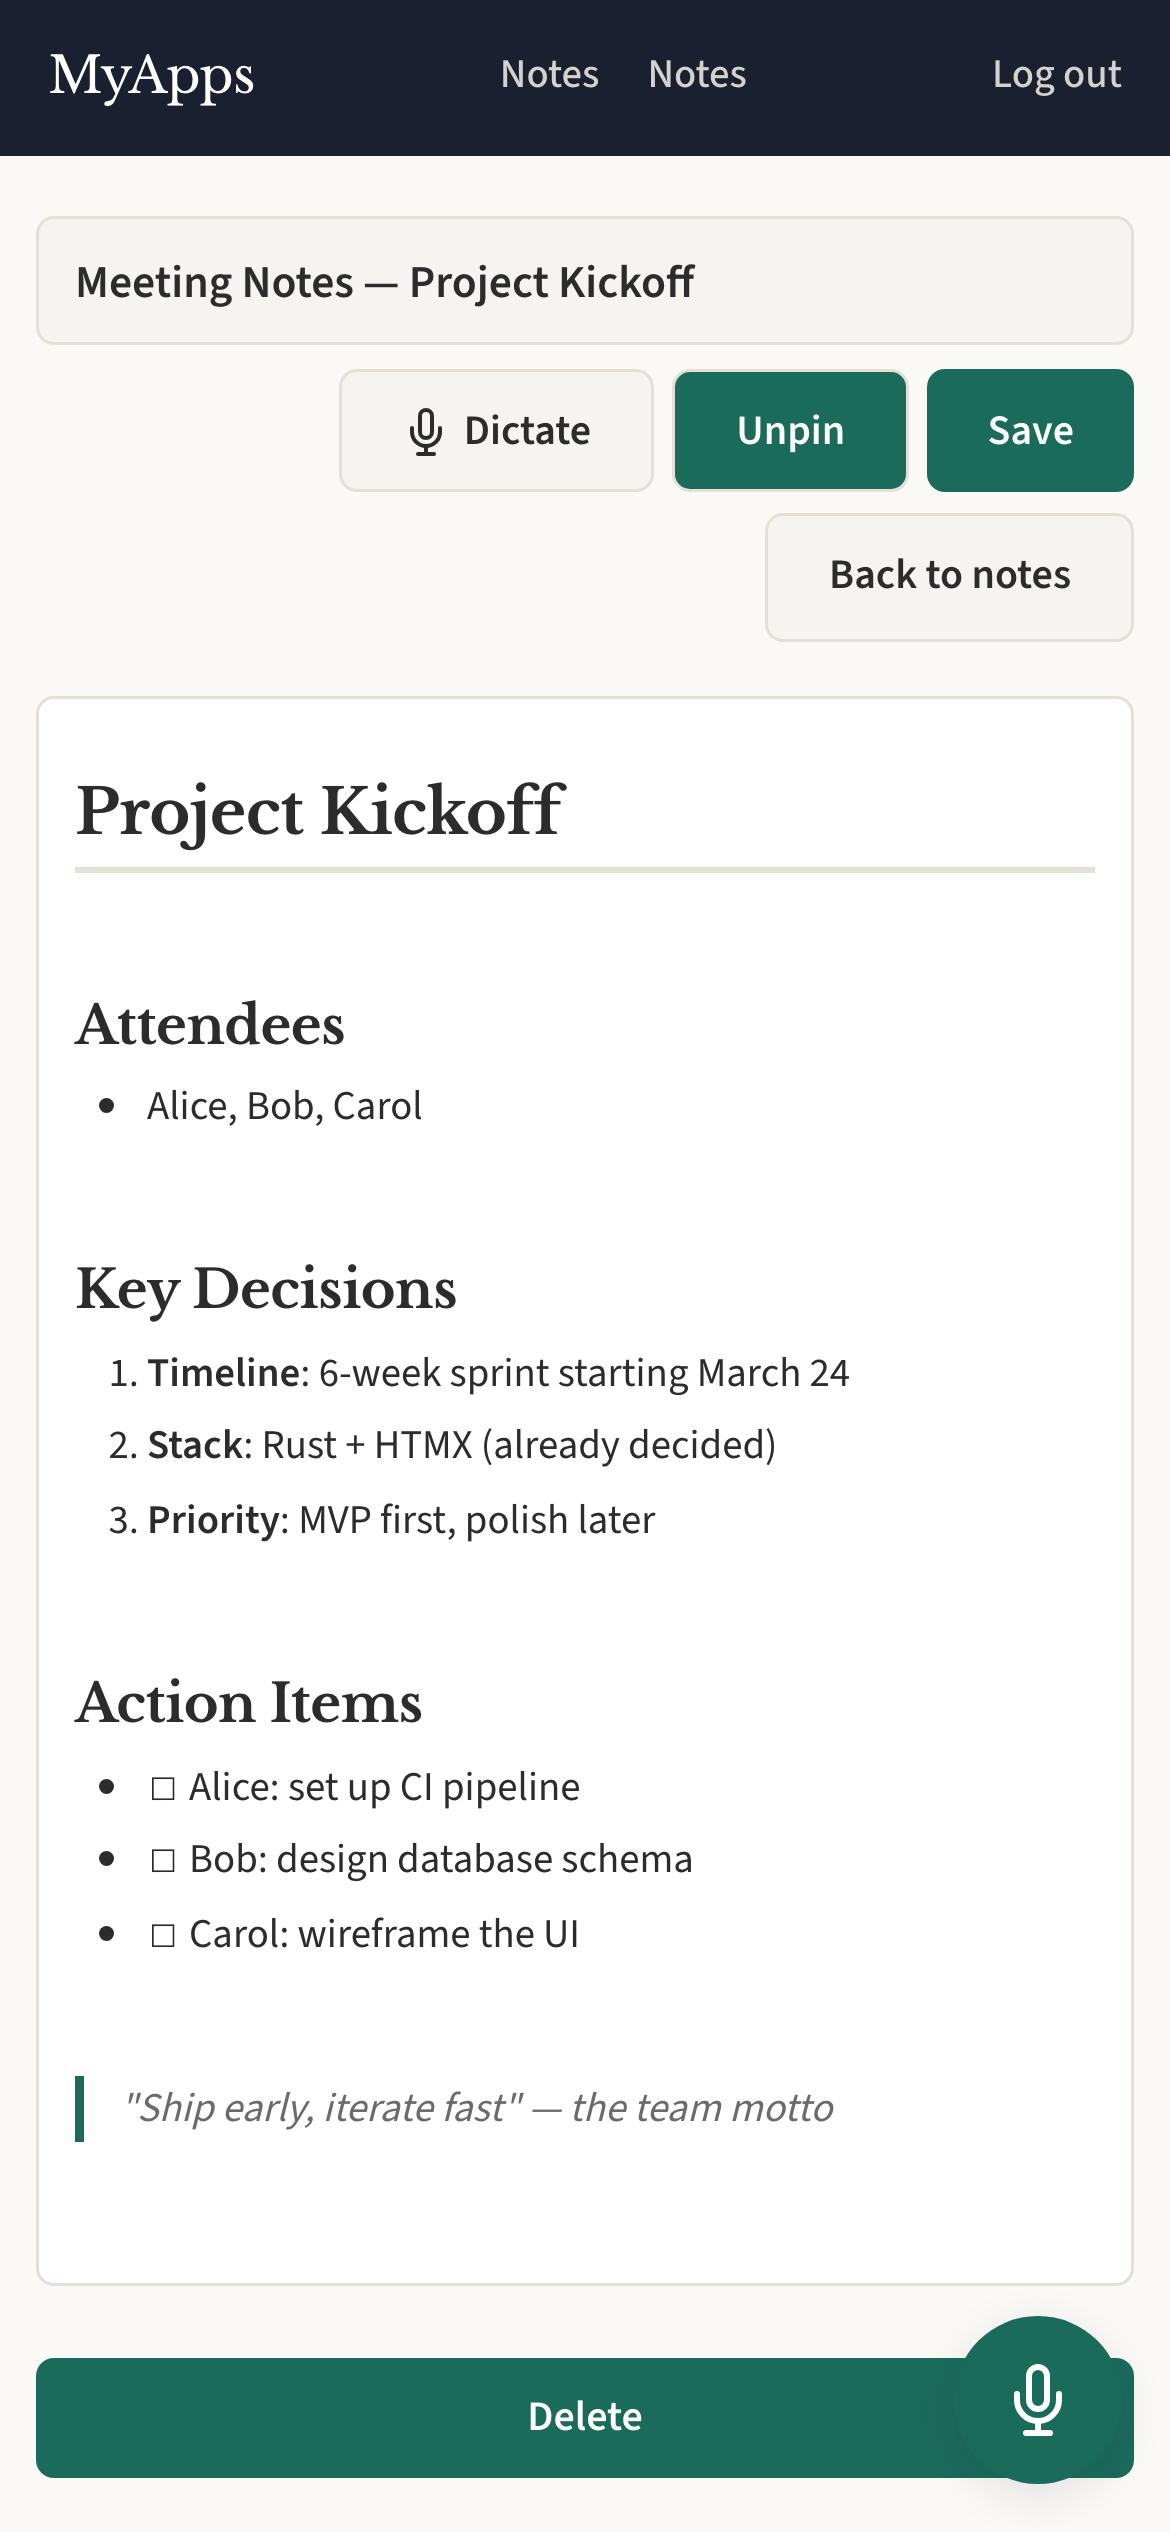
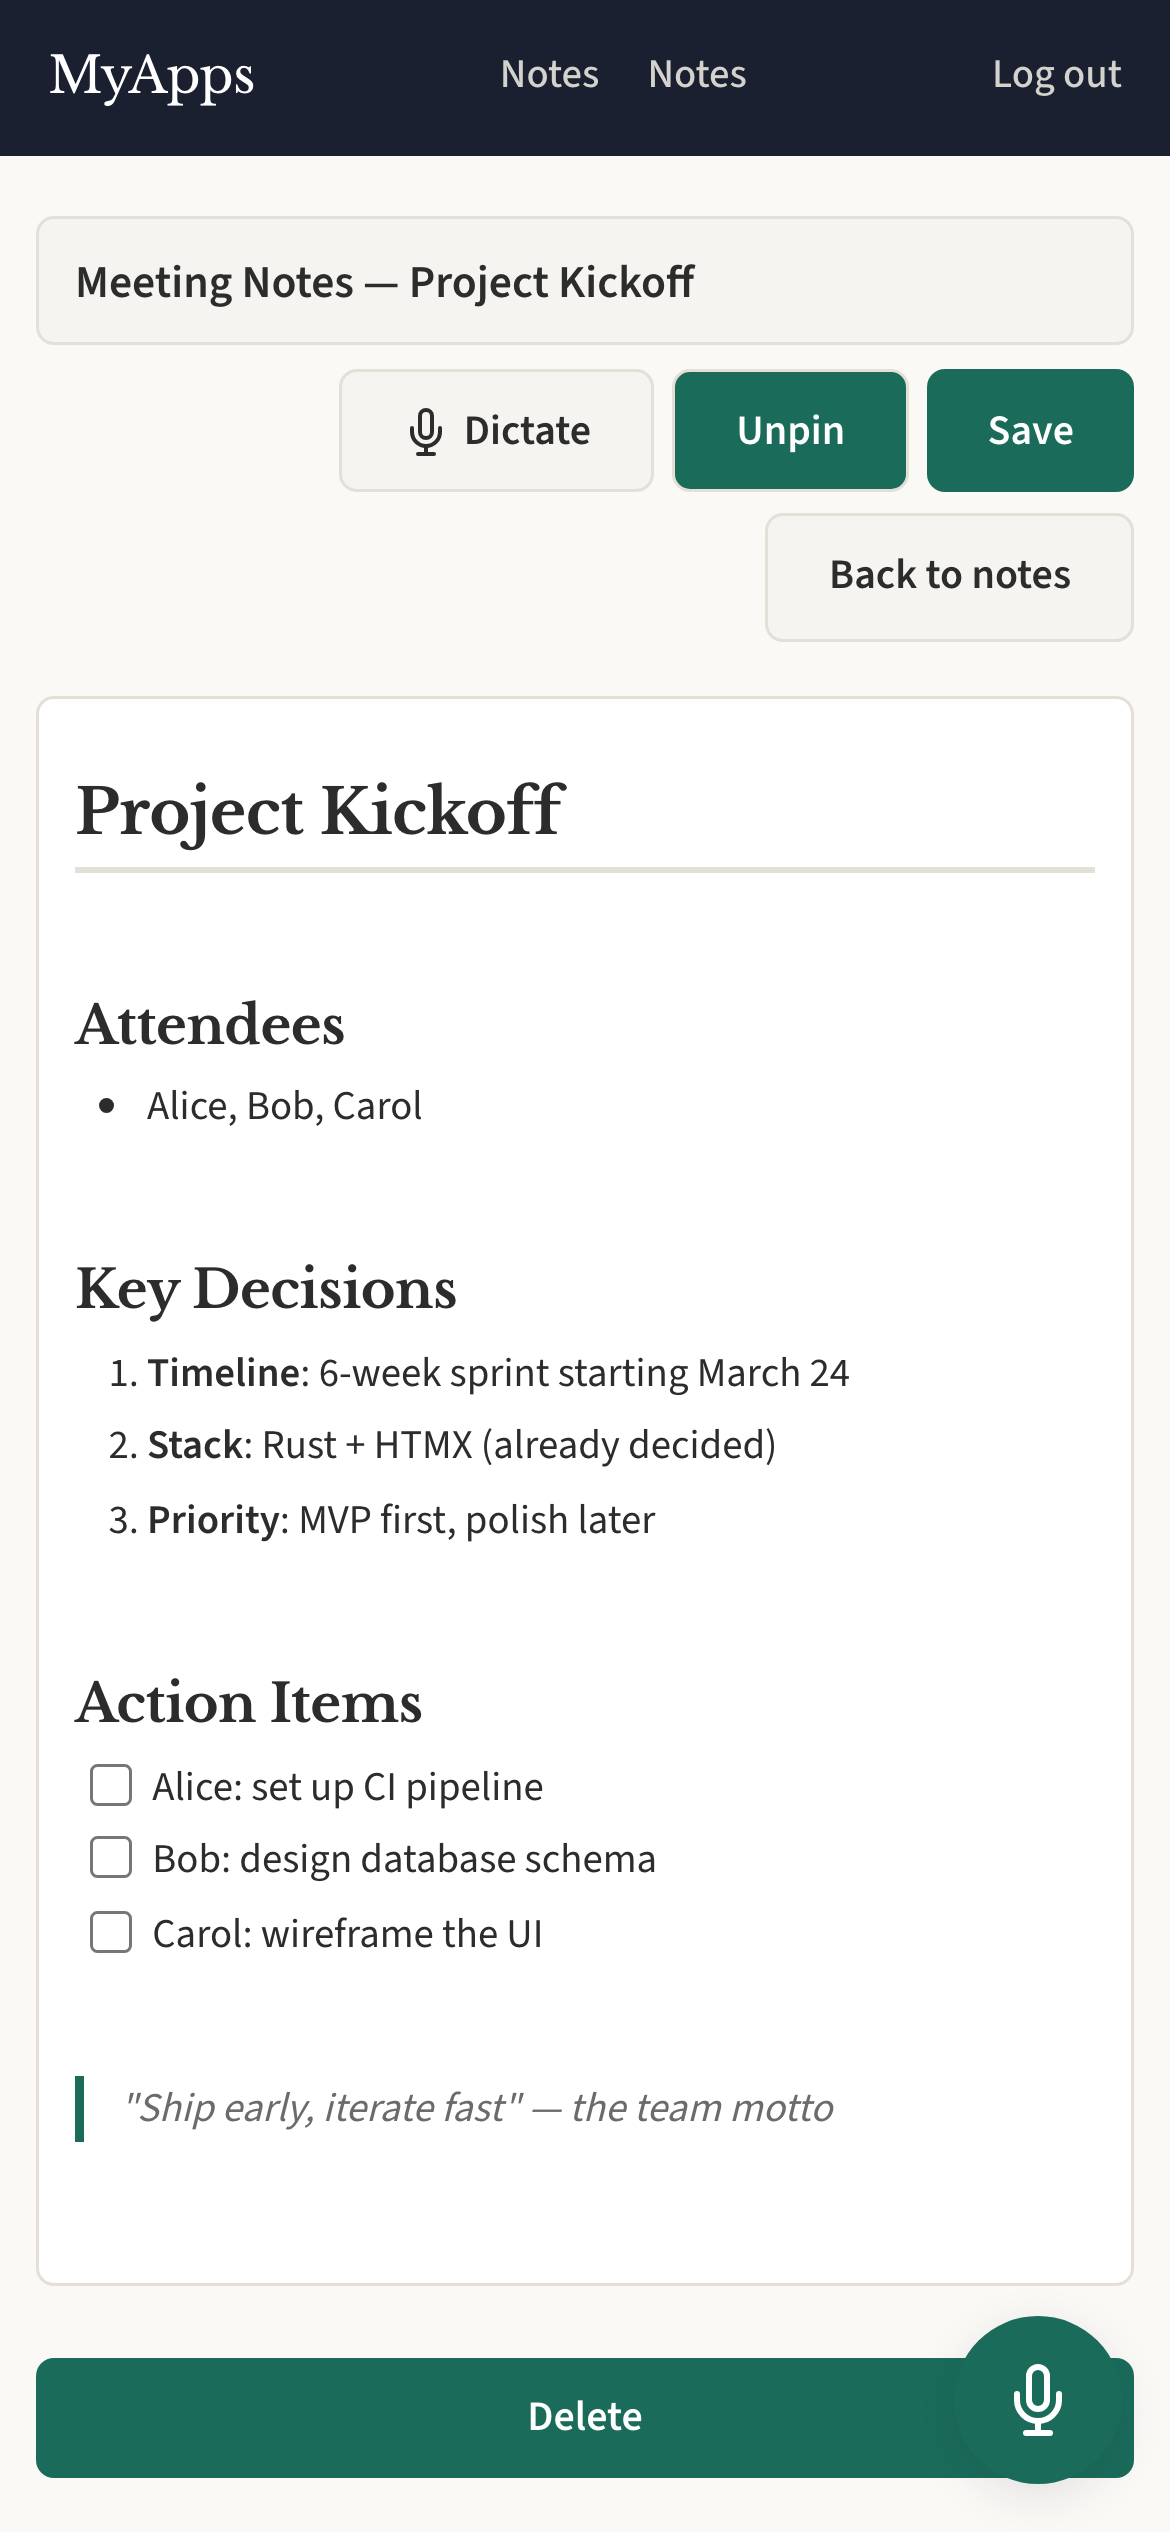
[FEAT-78] Toggle markdown checkboxes with a click in Notes editor (#78)

Changed region(s): [[0.0615, 0.6864, 0.5846, 0.78]]

diff --git a/static/notes-editor.js b/static/notes-editor.js
@@ -36,7 +36,13 @@
                 case 'hr': md += '---\n'; break;
                 case 'ul':
                     for (var li = 0; li < node.children.length; li++) {
-                        md += '- ' + getInlineText(node.children[li]) + '\n';
+                        var liEl = node.children[li];
+                        var cb = liEl.querySelector('input[type="checkbox"]');
+                        if (cb) {
+                            md += (cb.checked ? '- [x] ' : '- [ ] ') + getInlineText(liEl) + '\n';
+                        } else {
+                            md += '- ' + getInlineText(liEl) + '\n';
+                        }
                     }
                     break;
                 case 'ol':
@@ -63,6 +69,7 @@
             if (ch.nodeType === 3) { text += ch.textContent; continue; }
             if (ch.nodeType !== 1) continue;
             var tag = ch.tagName.toLowerCase();
+            if (tag === 'input') continue;
             if (tag === 'strong' || tag === 'b') text += '**' + getInlineText(ch) + '**';
             else if (tag === 'em' || tag === 'i') text += '*' + getInlineText(ch) + '*';
             else if (tag === 'code') text += '`' + ch.textContent + '`';
@@ -141,6 +148,37 @@
                 setCursorAt(li, 0);
                 syncToTextarea();
                 return;
+            }
+        }
+
+        // Task checkbox: user typed "[ ] " or "[x] " at the start of a plain <li>
+        // (typically right after "- " created the list). Convert the li into
+        // a task item with a real checkbox input.
+        if (block && block.tagName === 'LI' && !block.classList.contains('notes-task-item')) {
+            var firstChild = block.firstChild;
+            if (firstChild && firstChild.nodeType === 3) {
+                var firstText = norm(firstChild.textContent);
+                var cbMatch = firstText.match(/^\[([ xX])\] /);
+                if (cbMatch) {
+                    firstChild.textContent = firstChild.textContent.substring(cbMatch[0].length);
+                    block.classList.add('notes-task-item');
+                    var cb = document.createElement('input');
+                    cb.type = 'checkbox';
+                    cb.setAttribute('contenteditable', 'false');
+                    if (cbMatch[1] === 'x' || cbMatch[1] === 'X') {
+                        cb.checked = true;
+                        cb.setAttribute('checked', '');
+                    }
+                    block.insertBefore(cb, firstChild);
+                    var range = document.createRange();
+                    range.setStart(firstChild, 0);
+                    range.collapse(true);
+                    var sel = window.getSelection();
+                    sel.removeAllRanges();
+                    sel.addRange(range);
+                    syncToTextarea();
+                    return;
+                }
             }
         }
 
@@ -328,6 +366,41 @@
                     syncToTextarea();
                     return;
                 }
+                // Non-empty task item: create a new (empty) task item below,
+                // carrying any content that was after the cursor. Without
+                // this, the browser's default Enter produces a plain <li>
+                // with no checkbox and places the cursor awkwardly.
+                if (block.classList.contains('notes-task-item')) {
+                    e.preventDefault();
+                    var sel = window.getSelection();
+                    var range = sel.getRangeAt(0);
+                    var tailRange = document.createRange();
+                    tailRange.setStart(range.endContainer, range.endOffset);
+                    tailRange.setEnd(block, block.childNodes.length);
+                    var tail = tailRange.extractContents();
+
+                    var newLi = document.createElement('li');
+                    newLi.className = 'notes-task-item';
+                    var newCb = document.createElement('input');
+                    newCb.type = 'checkbox';
+                    newCb.setAttribute('contenteditable', 'false');
+                    newLi.appendChild(newCb);
+                    newLi.appendChild(tail);
+                    // Make sure there's a text node right after the checkbox
+                    // so the cursor has a valid offset-0 landing spot.
+                    if (!newLi.childNodes[1] || newLi.childNodes[1].nodeType !== 3) {
+                        newLi.insertBefore(document.createTextNode(''), newLi.childNodes[1] || null);
+                    }
+                    block.insertAdjacentElement('afterend', newLi);
+
+                    var newRange = document.createRange();
+                    newRange.setStart(newLi.childNodes[1], 0);
+                    newRange.collapse(true);
+                    sel.removeAllRanges();
+                    sel.addRange(newRange);
+                    syncToTextarea();
+                    return;
+                }
             }
         }
 
@@ -394,6 +467,22 @@
         sel.removeAllRanges();
         sel.addRange(range);
     }
+
+    // ── Task checkbox toggle ─────────────────────────────
+    // Clicking a checkbox toggles it natively; mirror the checked property
+    // to the attribute so the serialized HTML reflects the new state, then
+    // sync to markdown and save immediately (before the 30s auto-save).
+    editor.addEventListener('change', function(e) {
+        var t = e.target;
+        if (!t || t.tagName !== 'INPUT' || t.type !== 'checkbox') return;
+        if (t.checked) t.setAttribute('checked', ''); else t.removeAttribute('checked');
+        syncToTextarea();
+        var formData = new FormData(form);
+        fetch(form.action, {
+            method: 'POST',
+            body: new URLSearchParams(formData)
+        }).catch(function() {});
+    });
 
     // Sync before submit
     form.addEventListener('submit', function() {

diff --git a/crates/myapps-notes/static/style.css b/crates/myapps-notes/static/style.css
@@ -170,6 +170,24 @@
     margin: 0.15rem 0;
 }
 
+.notes-markdown-editor li.notes-task-item {
+    list-style: none;
+    margin-left: -1.4em;
+    display: flex;
+    align-items: baseline;
+    gap: 0.5em;
+}
+
+.notes-markdown-editor li.notes-task-item input[type="checkbox"] {
+    cursor: pointer;
+    width: 1.05em;
+    height: 1.05em;
+    flex-shrink: 0;
+    margin: 0;
+    padding: 0.2em;
+    transform: translateY(0.15em);
+}
+
 .notes-markdown-editor hr {
     border: none;
     border-top: 1px solid var(--border);

diff --git a/crates/myapps-notes/tests/notes/notes.rs b/crates/myapps-notes/tests/notes/notes.rs
@@ -546,3 +546,97 @@ async fn toggle_pin_then_check_edit_shows_unpin() {
     let body = r.text();
     assert!(body.contains(">Unpin<"));
 }
+
+#[tokio::test]
+async fn edit_note_renders_task_checkboxes_as_inputs() {
+    let app = app().await;
+    app.seed_and_login(&NotesApp).await;
+
+    // "Shopping List" has a mix of checked and unchecked task items.
+    let (id,): (i64,) =
+        sqlx::query_as("SELECT id FROM notes_notes WHERE title = 'Shopping List' LIMIT 1")
+            .fetch_one(&app.pool)
+            .await
+            .unwrap();
+
+    let r = app.server.get(&format!("/notes/{id}/edit")).await;
+    let body = r.text();
+
+    // Task items are rendered with the .notes-task-item class.
+    assert!(body.contains(r#"<li class="notes-task-item">"#));
+    // Both checked and unchecked variants are emitted as real checkbox inputs.
+    assert!(body.contains(r#"<input type="checkbox" checked contenteditable="false">"#));
+    assert!(body.contains(r#"<input type="checkbox" contenteditable="false">"#));
+    // The old Unicode-glyph rendering should be gone.
+    assert!(!body.contains("&#9745;"));
+    assert!(!body.contains("&#9744;"));
+}
+
+#[tokio::test]
+async fn edit_note_task_checkbox_pairs_with_its_text() {
+    let app = app().await;
+    app.login_as("test", "pass").await;
+
+    // Write a minimal note we fully control so we can assert exact HTML.
+    sqlx::query(
+        "INSERT INTO notes_notes (user_id, title, body) VALUES (1, 'Tasks', '- [x] Done item\n- [ ] Todo item')",
+    )
+    .execute(&app.pool)
+    .await
+    .unwrap();
+
+    let (id,): (i64,) = sqlx::query_as("SELECT id FROM notes_notes WHERE title = 'Tasks' LIMIT 1")
+        .fetch_one(&app.pool)
+        .await
+        .unwrap();
+
+    let r = app.server.get(&format!("/notes/{id}/edit")).await;
+    let body = r.text();
+
+    assert!(body.contains(
+        r#"<li class="notes-task-item"><input type="checkbox" checked contenteditable="false">Done item</li>"#,
+    ));
+    assert!(body.contains(
+        r#"<li class="notes-task-item"><input type="checkbox" contenteditable="false">Todo item</li>"#,
+    ));
+}
+
+#[tokio::test]
+async fn edit_note_task_checkbox_markdown_round_trips_through_save() {
+    let app = app().await;
+    app.login_as("test", "pass").await;
+
+    sqlx::query("INSERT INTO notes_notes (user_id, title, body) VALUES (1, 'Tasks', '')")
+        .execute(&app.pool)
+        .await
+        .unwrap();
+
+    let (id,): (i64,) = sqlx::query_as("SELECT id FROM notes_notes WHERE title = 'Tasks' LIMIT 1")
+        .fetch_one(&app.pool)
+        .await
+        .unwrap();
+
+    // Simulate the form the JS would submit after a checkbox toggle:
+    // the textarea carries the markdown with [x]/[ ] preserved.
+    app.server
+        .post(&format!("/notes/{id}/save"))
+        .form(&serde_json::json!({
+            "title": "Tasks",
+            "body": "- [x] First\n- [ ] Second",
+        }))
+        .expect_failure()
+        .await;
+
+    let (body,): (String,) = sqlx::query_as("SELECT body FROM notes_notes WHERE id = ?")
+        .bind(id)
+        .fetch_one(&app.pool)
+        .await
+        .unwrap();
+    assert_eq!(body, "- [x] First\n- [ ] Second");
+
+    // And re-rendering produces the expected HTML.
+    let r = app.server.get(&format!("/notes/{id}/edit")).await;
+    let html = r.text();
+    assert!(html.contains(r#"<input type="checkbox" checked contenteditable="false">First"#));
+    assert!(html.contains(r#"<input type="checkbox" contenteditable="false">Second"#));
+}

diff --git a/crates/myapps-notes/src/notes.rs b/crates/myapps-notes/src/notes.rs
@@ -442,10 +442,10 @@ fn markdown_to_editor_html(md: &str) -> String {
             }
             let checked = trimmed.starts_with("- [x]") || trimmed.starts_with("* [x]");
             let rest = &trimmed[6..];
-            let check = if checked { "&#9745; " } else { "&#9744; " };
+            let checked_attr = if checked { " checked" } else { "" };
             html.push_str(&format!(
-                "<li>{}{}</li>",
-                check,
+                r#"<li class="notes-task-item"><input type="checkbox"{} contenteditable="false">{}</li>"#,
+                checked_attr,
                 inline_md(&html_escape(rest))
             ));
             continue;

diff --git a/docs/requirements.md b/docs/requirements.md
@@ -392,6 +392,11 @@ and voice dictation support.
   horizontal rule, triple backticks open a code block, `- ` starts a list,
   `> ` starts a blockquote. Bold, italic, inline code, and links are rendered
   in the editor. Server-side Markdown→HTML pre-rendering for initial page load.
+- **Task checkboxes** — Markdown task items (`- [ ]` / `- [x]`) render as real
+  `<input type="checkbox">` elements. Clicking a checkbox toggles the task and
+  saves immediately. Typing `[ ] ` or `[x] ` at the start of a list item
+  converts it to a task item; pressing Enter inside a task item continues the
+  task list.
 - **Note CRUD** — create, edit, save, and delete notes. Title and body stored
   separately; untitled notes show a placeholder.
 - **Auto-save** — notes auto-save every 30 seconds via background fetch. Cmd/Ctrl+S
